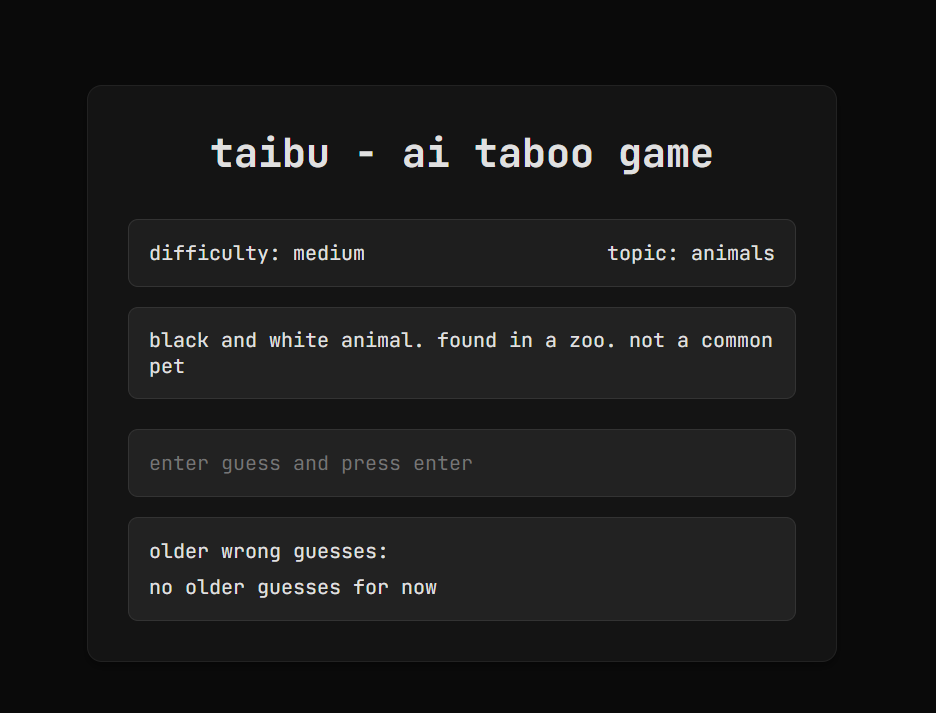
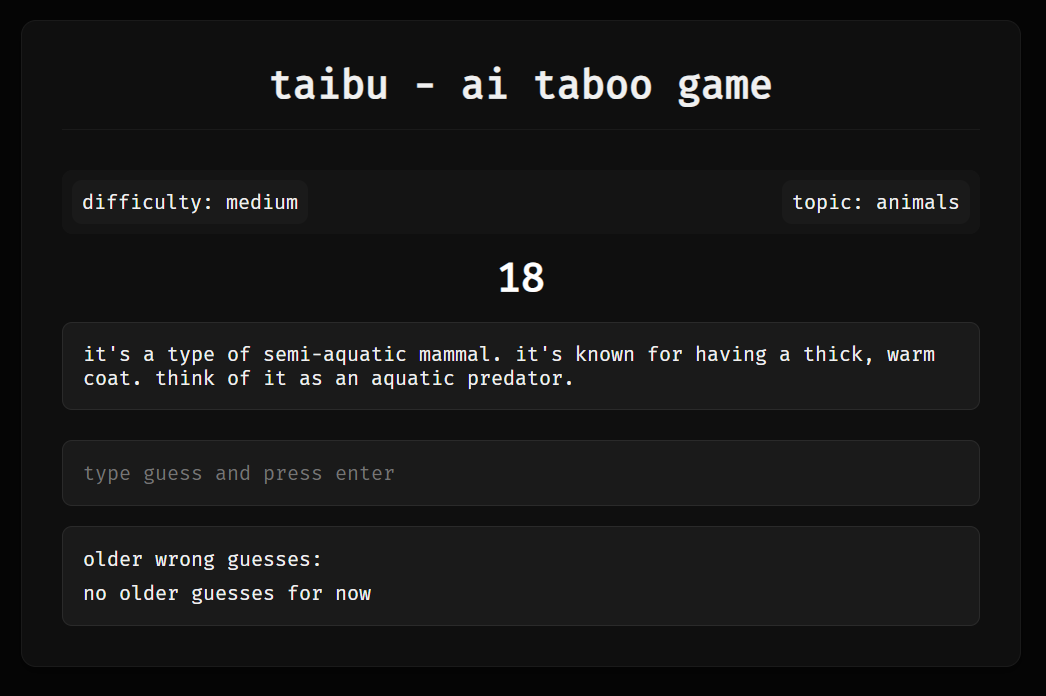
update readme and image // final for now

diff --git a/README.MD b/README.MD
@@ -17,13 +17,16 @@ An AI-powered intelligent Taboo game that creates card sets dynamically from cus
 - Multiple difficulty levels for varied challenge
 - Custom topic selection for personalized gaming experience
 - Maximum 5 attempts per word
+- Timer for each round
+- Guesses are checked for similarity, if they are close enough the game ends
 
 ## Usage
 - Select a topic and difficulty level
 - Click "Start Game" to receive your first hint
 - Type your guess and press Enter
 - Get new hints based on your previous guesses
-- Win by guessing the word within 5 attempts
+- Win by guessing the word within 5 attempts or by guessing a similar word
+- The game ends automatically if the timer runs out
 
 ## Operation Logic
 The game works in two main stages:
@@ -38,7 +41,7 @@ The game works in two main stages:
 - Each wrong guess triggers a new, more specific hint
 - Previous predictions are taken into account when generating new hints
 - Preventing the new hint from being the same as previous hints
-- The game ends after the correct guess or maximum attempts are reached
+- The game ends after the correct guess, a similar guess, the maximum attempts are reached or if the timer runs out
 
 ## Technology Stack
 - **Backend:** Flask (Python)
